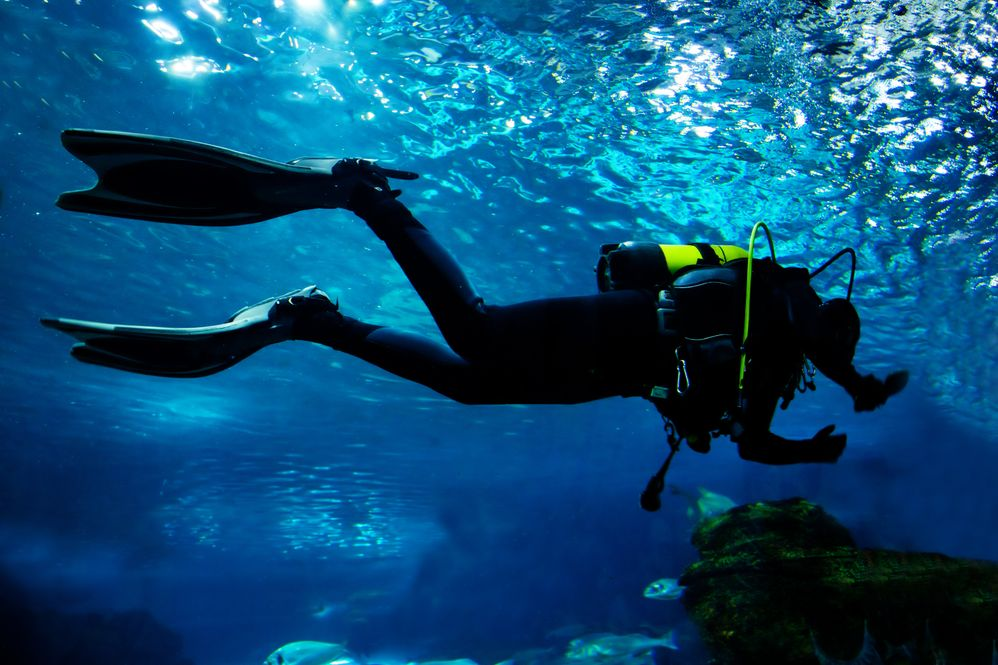
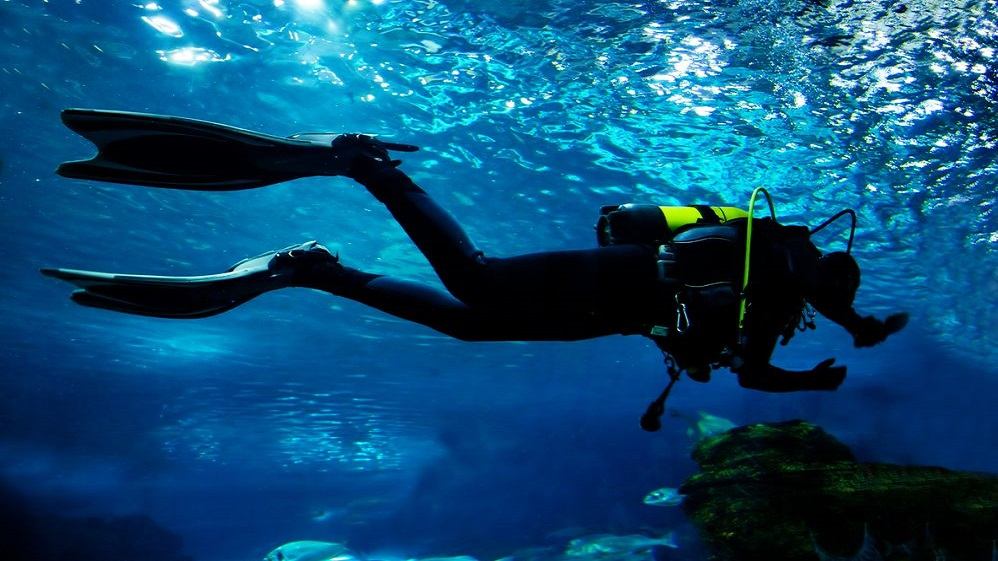
fixed picture size in block 'courses'

diff --git a/css/courses.css b/css/courses.css
@@ -1,49 +1,52 @@
-/* * {
-    border: solid 1px red;
-} */
-/* external container - for relation to other sections*/
 .courses {
     background-image: url(../images/courses_background.jpg);
     background-size: cover;
     padding-top: 50px;
     padding-bottom: 50px;
+    background-position: 54% 56%;
 }
-/* all data - paddings */
-.courses_place {
-    padding-left: 24px;
-    padding-right: 24px;
-}
-/*inner container for image and text: 4ieces*/
+
 .courses_item {
     margin-top: 30px;
     padding-left: 15px;
     padding-right: 15px;
 }
-/* main text h2 */
+
+.box-item__image {
+    height: 100%;
+    width: 100%;
+    object-fit: cover;
+    object-position: 75.5% 50%;
+    /* overflow: hidden; */
+}
+
 .courses__title {
     color: var(--main-color);
     text-align: center;
     font-size: 50px;
 }
-/* block h3 text */
+
 .box-item__name {
     color: var(--main-color);
     text-align: left;
     font-size: 22px;
 }
-/* block for text */
+
 .box-item__info {
     background-color: var(--box-background);
     padding: 31px 27px;
 }
-/*text information*/
+
 .box-item__text {
+    font-size: 16px;
+    line-height: 1.56;
+    font-family: "Chivo", sans-serif;
+    font-weight: 400;
     color: var(--text-color);
     text-align: left;
-    font-size: 16px;
     margin-top: 20px;
 }
-/*link to another page*/
+
 .box-item__link {
     font-family: "Chivo", sans-serif;
     font-size: 11px;
@@ -51,11 +54,12 @@
     color: var(--accent-color);
     text-decoration: none;
 }
+
 .box-item a:hover {
     color: var(--main-color);
     text-decoration: underline;
 }
-/*button courses*/
+
 .courses__button {
     font-family: "Chivo", sans-serif;
     font-size: 11px;
@@ -67,61 +71,44 @@
     padding: 15px 25px;
     border: solid 1px var(--text-color);
 }
+
 .courses__button:hover {
     background-color: var(--accent-color);
 }
+
 .courses__button-place {
     display: flex;
     justify-content: center;
     margin-top: 50px;
 }
-/*two columns if width more than 768*/
+
 @media (min-width: 768px) {
-    .courses_place {
-        padding-left: 32px;
-        padding-right: 32px;
-    }
     .courses__box {
         display: grid;
         grid-template-columns: 1fr 1fr;
     }
+
     .box-item__name {
         font-size: 24px;
     }
+
     .box-item__info {
-        padding: 34px 28px 34px 28px;
+        padding: 34px 28px;
     }
 }
-/*put text ot the right if width more than 992*/
+
 @media (min-width: 992px) {
-    .courses_place {
-        padding-left: 40px;
-        padding-right: 40px;
-    }
     .box-item {
         display: grid;
         grid-template-columns: 1fr 1fr;
-        grid-auto-rows:auto;
+        grid-auto-rows: auto;
     }
+
     .box-item__name {
         font-size: 26px;
     }
+
     .box-item__info {
-        padding: 40px 30px 40px 30px;
+        padding: 40px 30px;
     }
-    .box-item__image {
-        height: 100%;
-        width: 100%;
-    }
-}
-@media (min-width: 1200px) {
-    .courses__box {
-        grid-auto-columns: 100px;
-    }
-    img {
-        display: block;
-        width: auto;
-        height: auto;
-        max-width: 100%;
-      }
 }

diff --git a/courses.partial.html b/courses.partial.html
@@ -1,6 +1,6 @@
 <!-- Andrij Pavlovich, block 10 - Courses - START -->
 <section class="courses">
-    <div class="courses_place">
+    <div class="courses_place container">
         <div class="courses__logo">
             <img class="diving-icon" width="70" src="images/icon.png" alt="Diving icon">
             <h2 class="courses__title">Courses</h2>
@@ -8,20 +8,18 @@
         <div class="courses__box">
             <div class="courses_item box-item">
                 <div class="box-item__image-wrapper">
-                    <img class="box-item__image" src="images/diver_ok.jpg" 
-                    alt="Diver underwater">
+                    <img class="box-item__image" src="images/diver_ok.jpg" alt="Diver underwater">
                 </div>
                 <div class=box-item__info>
                     <h3 class="box-item__name">PADI Open Water Course</h3>
                     <p class="box-item__text">A 3-4 days course for beginners. Students are introduced to the equipment,
-                    the basics of scuba diving, various techniques, and receive a certificate.</p>
+                        the basics of scuba diving, various techniques, and receive a certificate.</p>
                     <a href="#" class="box-item__link">LEARN MORE</a>
                 </div>
             </div>
             <div class="courses_item box-item">
                 <div class="box-item__image-wrapper">
-                    <img class="box-item__image" src="images/diver_swimming.jpg" 
-                    alt="Diver underwater swimming">
+                    <img class="box-item__image" src="images/diver_swimming.jpg" alt="Diver underwater swimming">
                 </div>
                 <div class=box-item__info>
                     <h3 class="box-item__name">PADI Advanced Open Water Course</h3>
@@ -33,8 +31,7 @@
             </div>
             <div class="courses_item box-item">
                 <div class="box-item__image-wrapper">
-                    <img class="box-item__image" src="images/diver_and_fish.jpg" 
-                    alt="Diver and fish">
+                    <img class="box-item__image" src="images/diver_and_fish.jpg" alt="Diver and fish">
                 </div>
                 <div class=box-item__info>
                     <h3 class="box-item__name">PADI Rescue Diver Course</h3>
@@ -46,8 +43,7 @@
             </div>
             <div class="courses_item box-item">
                 <div class="box-item__image-wrapper">
-                    <img class="box-item__image" src="images/diver_in_old_ship.jpg" 
-                    alt="Diver in old ship">
+                    <img class="box-item__image" src="images/diver_in_old_ship.jpg" alt="Diver in old ship">
                 </div>
                 <div class=box-item__info>
                     <h3 class="box-item__name">PADI Divemaster Course</h3>
